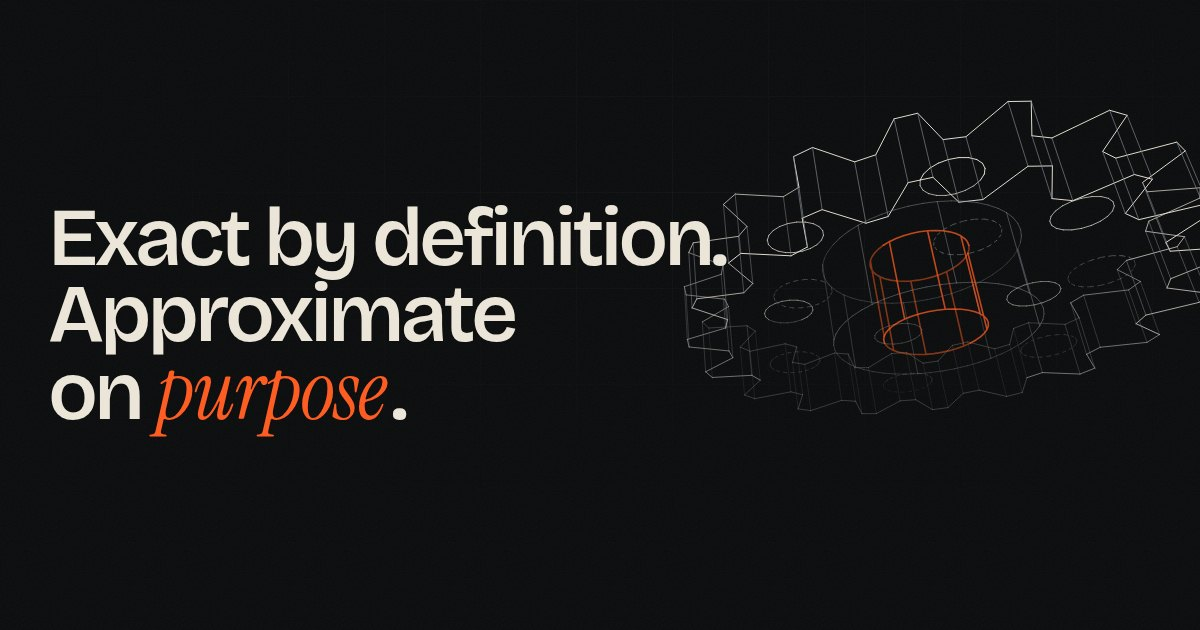
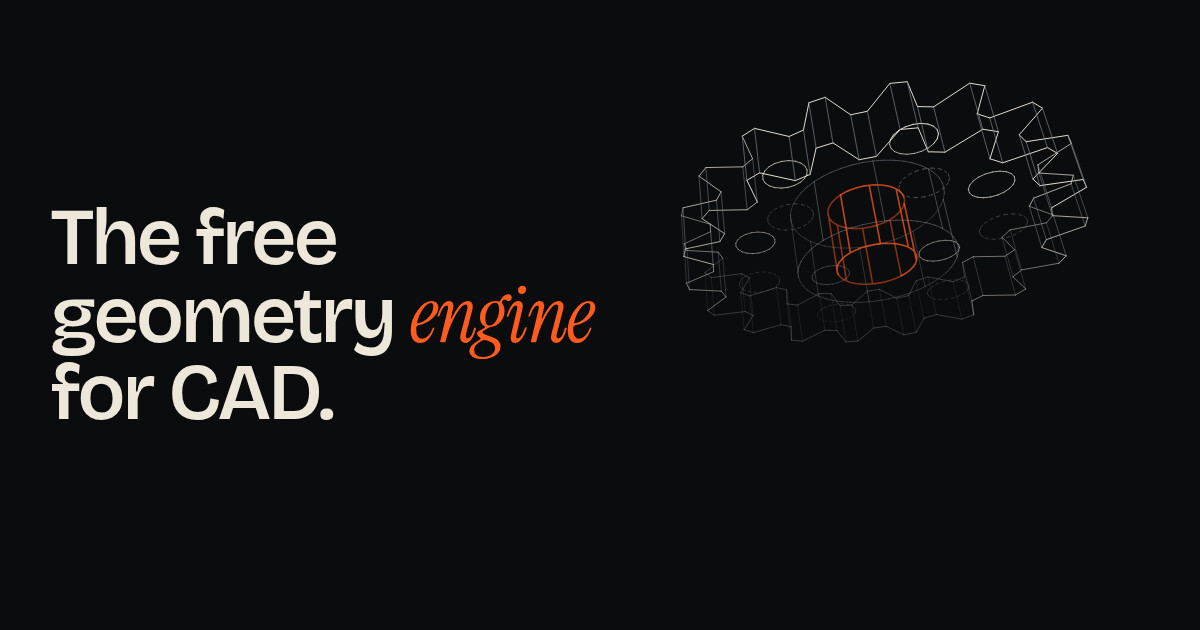
fix(site): apply approved kernel copy and preview headline

diff --git a/site/index.html b/site/index.html
@@ -3,19 +3,19 @@
 <head>
 <meta charset="utf-8">
 <meta name="viewport" content="width=device-width, initial-scale=1">
-<title>Catallax + SolidDraft · One kernel, two representations</title>
+<title>Catallax + SolidDraft · Open source CAD kernel</title>
 <meta name="description" content="Catallax is a memory-safe Rust geometry kernel with exact B-rep and signed distance fields. Free under MIT and built for SolidDraft CAD.">
 <meta name="color-scheme" content="dark">
 <meta name="theme-color" content="#0b0c0d">
 <meta property="og:type" content="website">
 <meta property="og:site_name" content="Catallax + SolidDraft">
-<meta property="og:title" content="Catallax + SolidDraft · One kernel, two representations">
+<meta property="og:title" content="Catallax + SolidDraft · Open source CAD kernel">
 <meta property="og:description" content="Catallax is a memory-safe Rust geometry kernel with exact B-rep and signed distance fields. Free under MIT and built for SolidDraft CAD.">
 <meta property="og:url" content="https://kernel.zigrawbohnbawerick.org/">
 <meta property="og:image" content="https://kernel.zigrawbohnbawerick.org/media/og-card.jpg">
 <meta property="og:image:width" content="1200">
 <meta property="og:image:height" content="630">
-<meta property="og:image:alt" content="Wireframe of a spur gear beside the headline: Exact by definition. Approximate on purpose.">
+<meta property="og:image:alt" content="Wireframe of a spur gear beside the headline: The free geometry engine for CAD.">
 <meta name="twitter:card" content="summary_large_image">
 <link rel="canonical" href="https://kernel.zigrawbohnbawerick.org/">
 <link rel="icon" href="brand/mark.svg" type="image/svg+xml">
@@ -102,15 +102,15 @@
 
   <div class="hero__copy">
     <h1>
-      <span class="ln"><span>Exact by definition.</span></span>
-      <span class="ln"><span>Approximate</span></span>
-      <span class="ln"><span>on <em>purpose</em>.</span></span>
+      <span class="ln"><span>The free</span></span>
+      <span class="ln"><span>geometry <em>engine</em></span></span>
+      <span class="ln"><span>for CAD.</span></span>
     </h1>
     <div class="hero__foot">
       <div class="fcf" role="img" aria-label="Feature control frame: profile tolerance zero to datum definition">
         <span><svg class="sym"><use href="#s-profile"/></svg></span><span>0</span><span>DEF</span>
       </div>
-      <p class="hero__sub">A memory-safe geometry kernel.<br>Free forever.</p>
+      <p class="hero__sub">Exact maths. Open code. No fees.</p>
     </div>
     <div class="ctas">
       <a class="btn btn--hot" href="https://github.com/BohnBawerick/catallax" target="_blank" rel="noopener"><span>Read the code</span><svg class="sym"><use href="#s-arrow"/></svg></a>
@@ -128,9 +128,9 @@
 
 <section class="sheet why" id="why">
   <h2>
-    <span class="ln"><span>Geometry should not</span></span>
-    <span class="ln"><span>require a vendor's</span></span>
-    <span class="ln"><span><em class="redline">permission</em>.</span></span>
+    <span class="ln"><span>No licence fees.</span></span>
+    <span class="ln"><span>No seats.</span></span>
+    <span class="ln"><span>No <em class="redline">lock-in</em>.</span></span>
   </h2>
   <ul class="verbs">
     <li><svg class="art"><use href="#v-copy"/></svg><span>Copy it.</span></li>
@@ -161,7 +161,7 @@
 <section class="anatomy" id="kernel">
   <div class="anatomy__stage"><canvas class="anatomy__canvas" role="img" aria-label="Illustrative wireframe for the current kernel layer, not kernel output"></canvas></div>
   <ol class="steps">
-    <li class="step is-on"><h2>B-rep</h2><p>From an idea to the machine shop.</p></li>
+    <li class="step is-on"><h2>B-rep</h2><p>Exact surfaces, ready for STEP and drawings.</p></li>
     <li class="step"><h2>Definitions</h2><p>Geometry stored by definition.</p></li>
     <li class="step"><h2>Booleans</h2><p>Cut. Unite. Intersect.</p></li>
     <li class="step"><h2>Field</h2><p>One unified feature tree.</p></li>
@@ -174,13 +174,13 @@
   <p class="illus">Illustration</p>
   <video muted loop playsinline preload="none" poster="media/kernel-assembly-poster.jpg" aria-label="Wireframe gearbox assembly illustration."><source src="media/kernel-assembly.mp4" type="video/mp4"></video>
   <h2>
-    <span class="ln"><span>Inspect <em>every edge</em>.</span></span>
+    <span class="ln"><span>Check our <em>work</em>.</span></span>
   </h2>
 </section>
 
 <section class="sheet outcomes" id="outcomes">
   <h2>
-    <span class="ln"><span>Never quietly <em>guess</em>.</span></span>
+    <span class="ln"><span>Every answer <em>labelled</em>.</span></span>
   </h2>
   <ul class="grid4">
     <li><svg class="art"><use href="#o-proven"/></svg><code>Proven</code></li>
@@ -213,15 +213,15 @@
         <tr role="row"><th scope="row" role="rowheader">Pali Ijo</th><td role="cell" style="--v:0.769"><i></i><b>30</b></td><td role="cell" style="--v:0.769"><i></i><b>30</b></td></tr>
       </tbody>
     </table>
-    <figcaption class="mono"><span class="key key--a">Build</span><span class="key key--b">Edit</span><span>Completed, of 39</span><span class="truth">Completion is not correctness.</span><a href="comparison.html" target="_blank" rel="noopener">Full comparison</a></figcaption>
+    <figcaption class="mono"><span class="key key--a">Build</span><span class="key key--b">Edit</span><span>Completed, of 39</span><span class="truth">Finishing a part does not prove it is correct.</span><a href="comparison.html" target="_blank" rel="noopener">Full comparison</a></figcaption>
   </figure>
 </section>
 
 <section class="sheet ci">
   <div class="ci__head">
     <h2>
-      <span class="ln"><span>Proof before</span></span>
-      <span class="ln"><span><em>promise</em>.</span></span>
+      <span class="ln"><span>Watch it</span></span>
+      <span class="ln"><span><em>build</em>.</span></span>
     </h2>
     <ul class="checks mono">
       <li><svg class="sym"><use href="#s-check"/></svg>fmt</li>
@@ -239,7 +239,7 @@
   <div class="draft__head">
     <h2>
       <span class="ln"><span>SolidDraft.</span></span>
-      <span class="ln"><span><em>Modern craft</em>.</span></span>
+      <span class="ln"><span>Parametric <em>CAD</em>.</span></span>
     </h2>
     <ul class="chips mono">
       <li><svg class="sym"><use href="#s-perp"/></svg>Sketch</li>
@@ -258,8 +258,8 @@
 <section class="sheet support" id="support">
   <canvas class="support__canvas" aria-hidden="true"></canvas>
   <h2>
-    <span class="ln"><span>Geometry belongs</span></span>
-    <span class="ln"><span>to <em>everyone</em>.</span></span>
+    <span class="ln"><span>Sponsor the</span></span>
+    <span class="ln"><span>free <em>kernel</em>.</span></span>
   </h2>
   <div class="ctas">
     <a class="btn btn--ink" href="https://github.com/sponsors/BohnBawerick" target="_blank" rel="noopener"><span>GitHub Sponsors</span></a>
@@ -269,8 +269,8 @@
 
 <section class="sheet contact" id="thanks">
   <h2>
-    <span class="ln"><span>Knowledge,</span></span>
-    <span class="ln"><span>published <em>free</em>.</span></span>
+    <span class="ln"><span>Built on</span></span>
+    <span class="ln"><span><em>research</em>.</span></span>
   </h2>
   <div class="ctas">
     <a class="btn" href="thanks.html"><span>Special thanks</span></a>
@@ -282,7 +282,6 @@
     <span class="ln"><span>Build on</span></span>
     <span class="ln"><span><em>open ground</em>.</span></span>
   </h2>
-  <p>Open to kernel work.</p>
   <div class="ctas">
     <a class="btn btn--hot" href="mailto:phd@zigrawbohnbawerick.org"><span>phd@zigrawbohnbawerick.org</span></a>
     <a class="btn" href="https://github.com/BohnBawerick/catallax" target="_blank" rel="noopener"><span>GitHub</span></a>

diff --git a/site/render/comparison.py b/site/render/comparison.py
@@ -44,7 +44,7 @@ def render_index(source, index, check=False):
         '      <tbody role="rowgroup">\n' + '\n'.join(summary_rows) + '\n      </tbody>\n'
         '    </table>\n'
         '    <figcaption class="mono"><span class="key key--a">Build</span><span class="key key--b">Edit</span>'
-        f'<span>Completed, of {total}</span><span class="truth">Completion is not correctness.</span>'
+        f'<span>Completed, of {total}</span><span class="truth">Finishing a part does not prove it is correct.</span>'
         '<a href="comparison.html" target="_blank" rel="noopener">Full comparison</a></figcaption>\n'
         '  </figure>')
     original = index.read_text()
